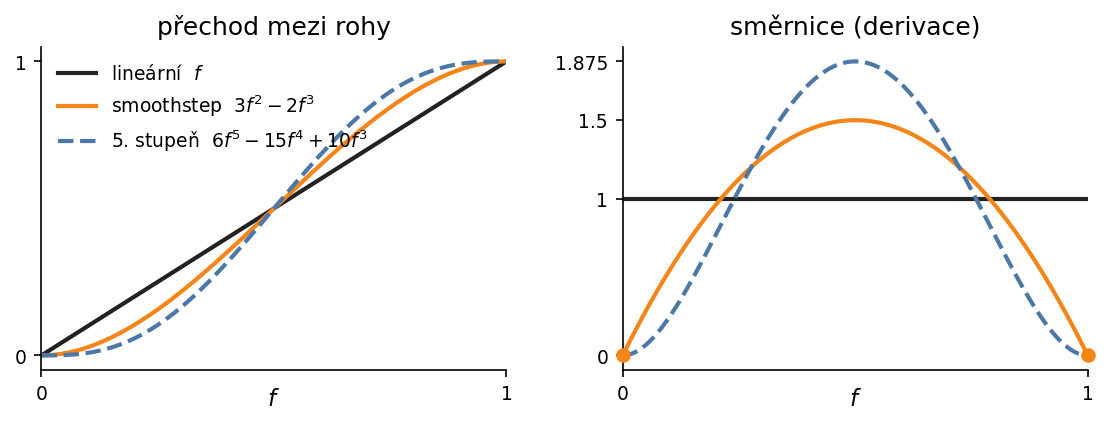
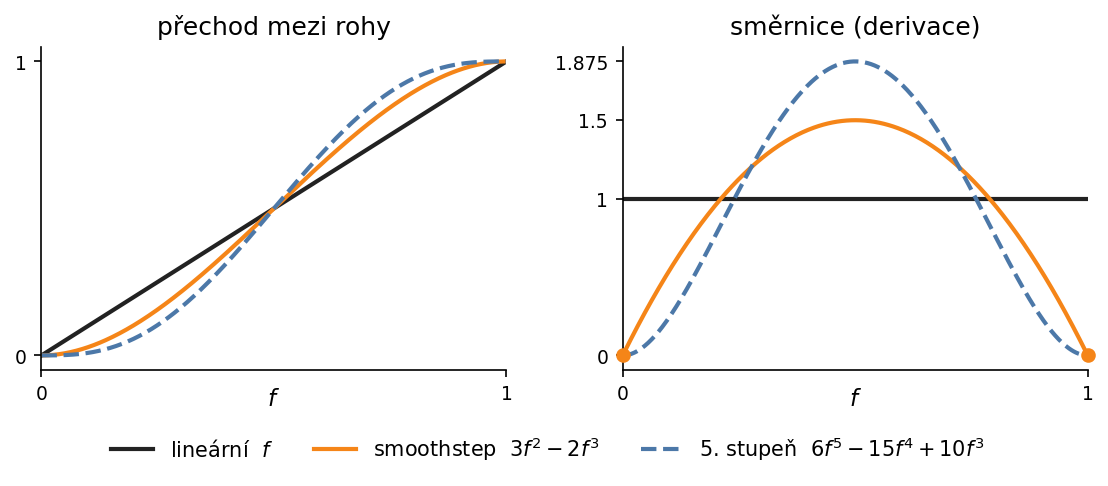
Lesson 2's smoothstep graph keeps its legend under the plots

diff --git a/build/lesson_02_diagrams.py b/build/lesson_02_diagrams.py
@@ -261,7 +261,7 @@ for ax, title in zip(axes, ("přechod mezi rohy", "směrnice (derivace)")):
 axes[0].set_yticks([0, 1])
 axes[1].set_yticks([0, 1, 1.5, 1.875])
 axes[1].set_yticklabels(["0", "1", "1.5", "1.875"])
-axes[0].legend(fontsize=9, frameon=False, loc="upper left")
+fig.legend(*axes[0].get_legend_handles_labels(), fontsize=10, frameon=False, ncol=3, loc="upper center", bbox_to_anchor=(0.5, 0.0))
 save(fig, "smoothstep.png")
 
 
